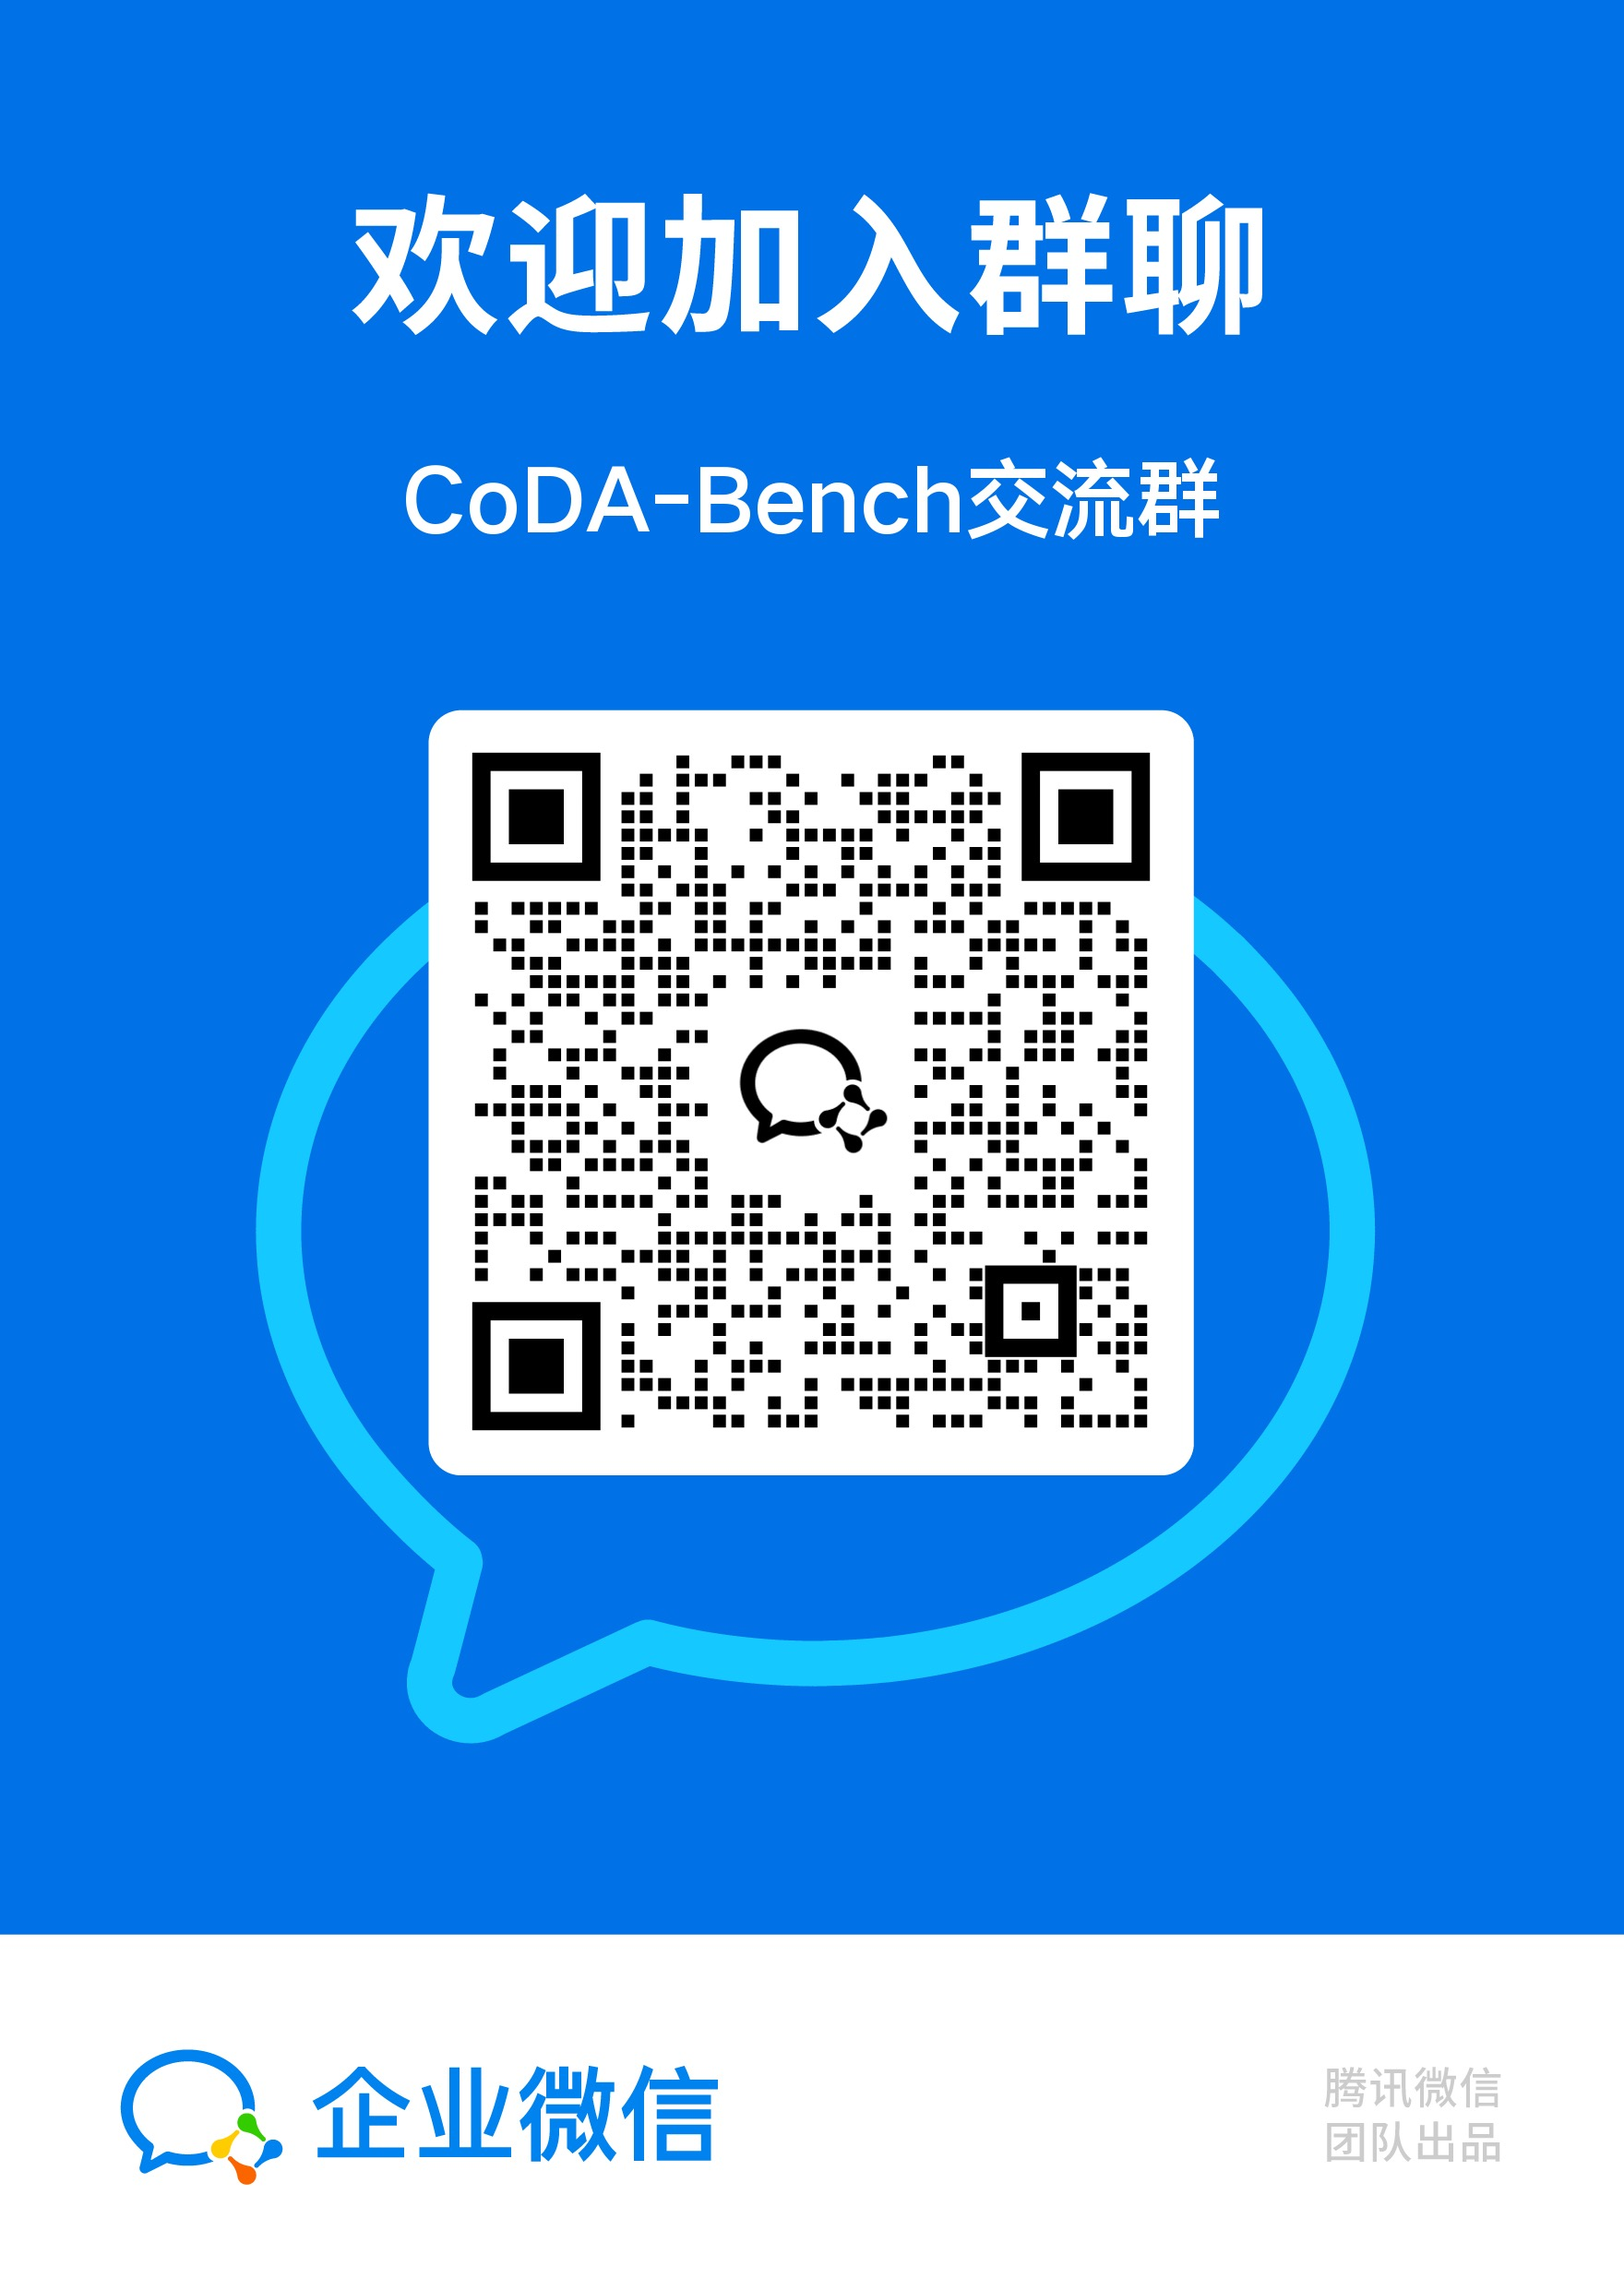
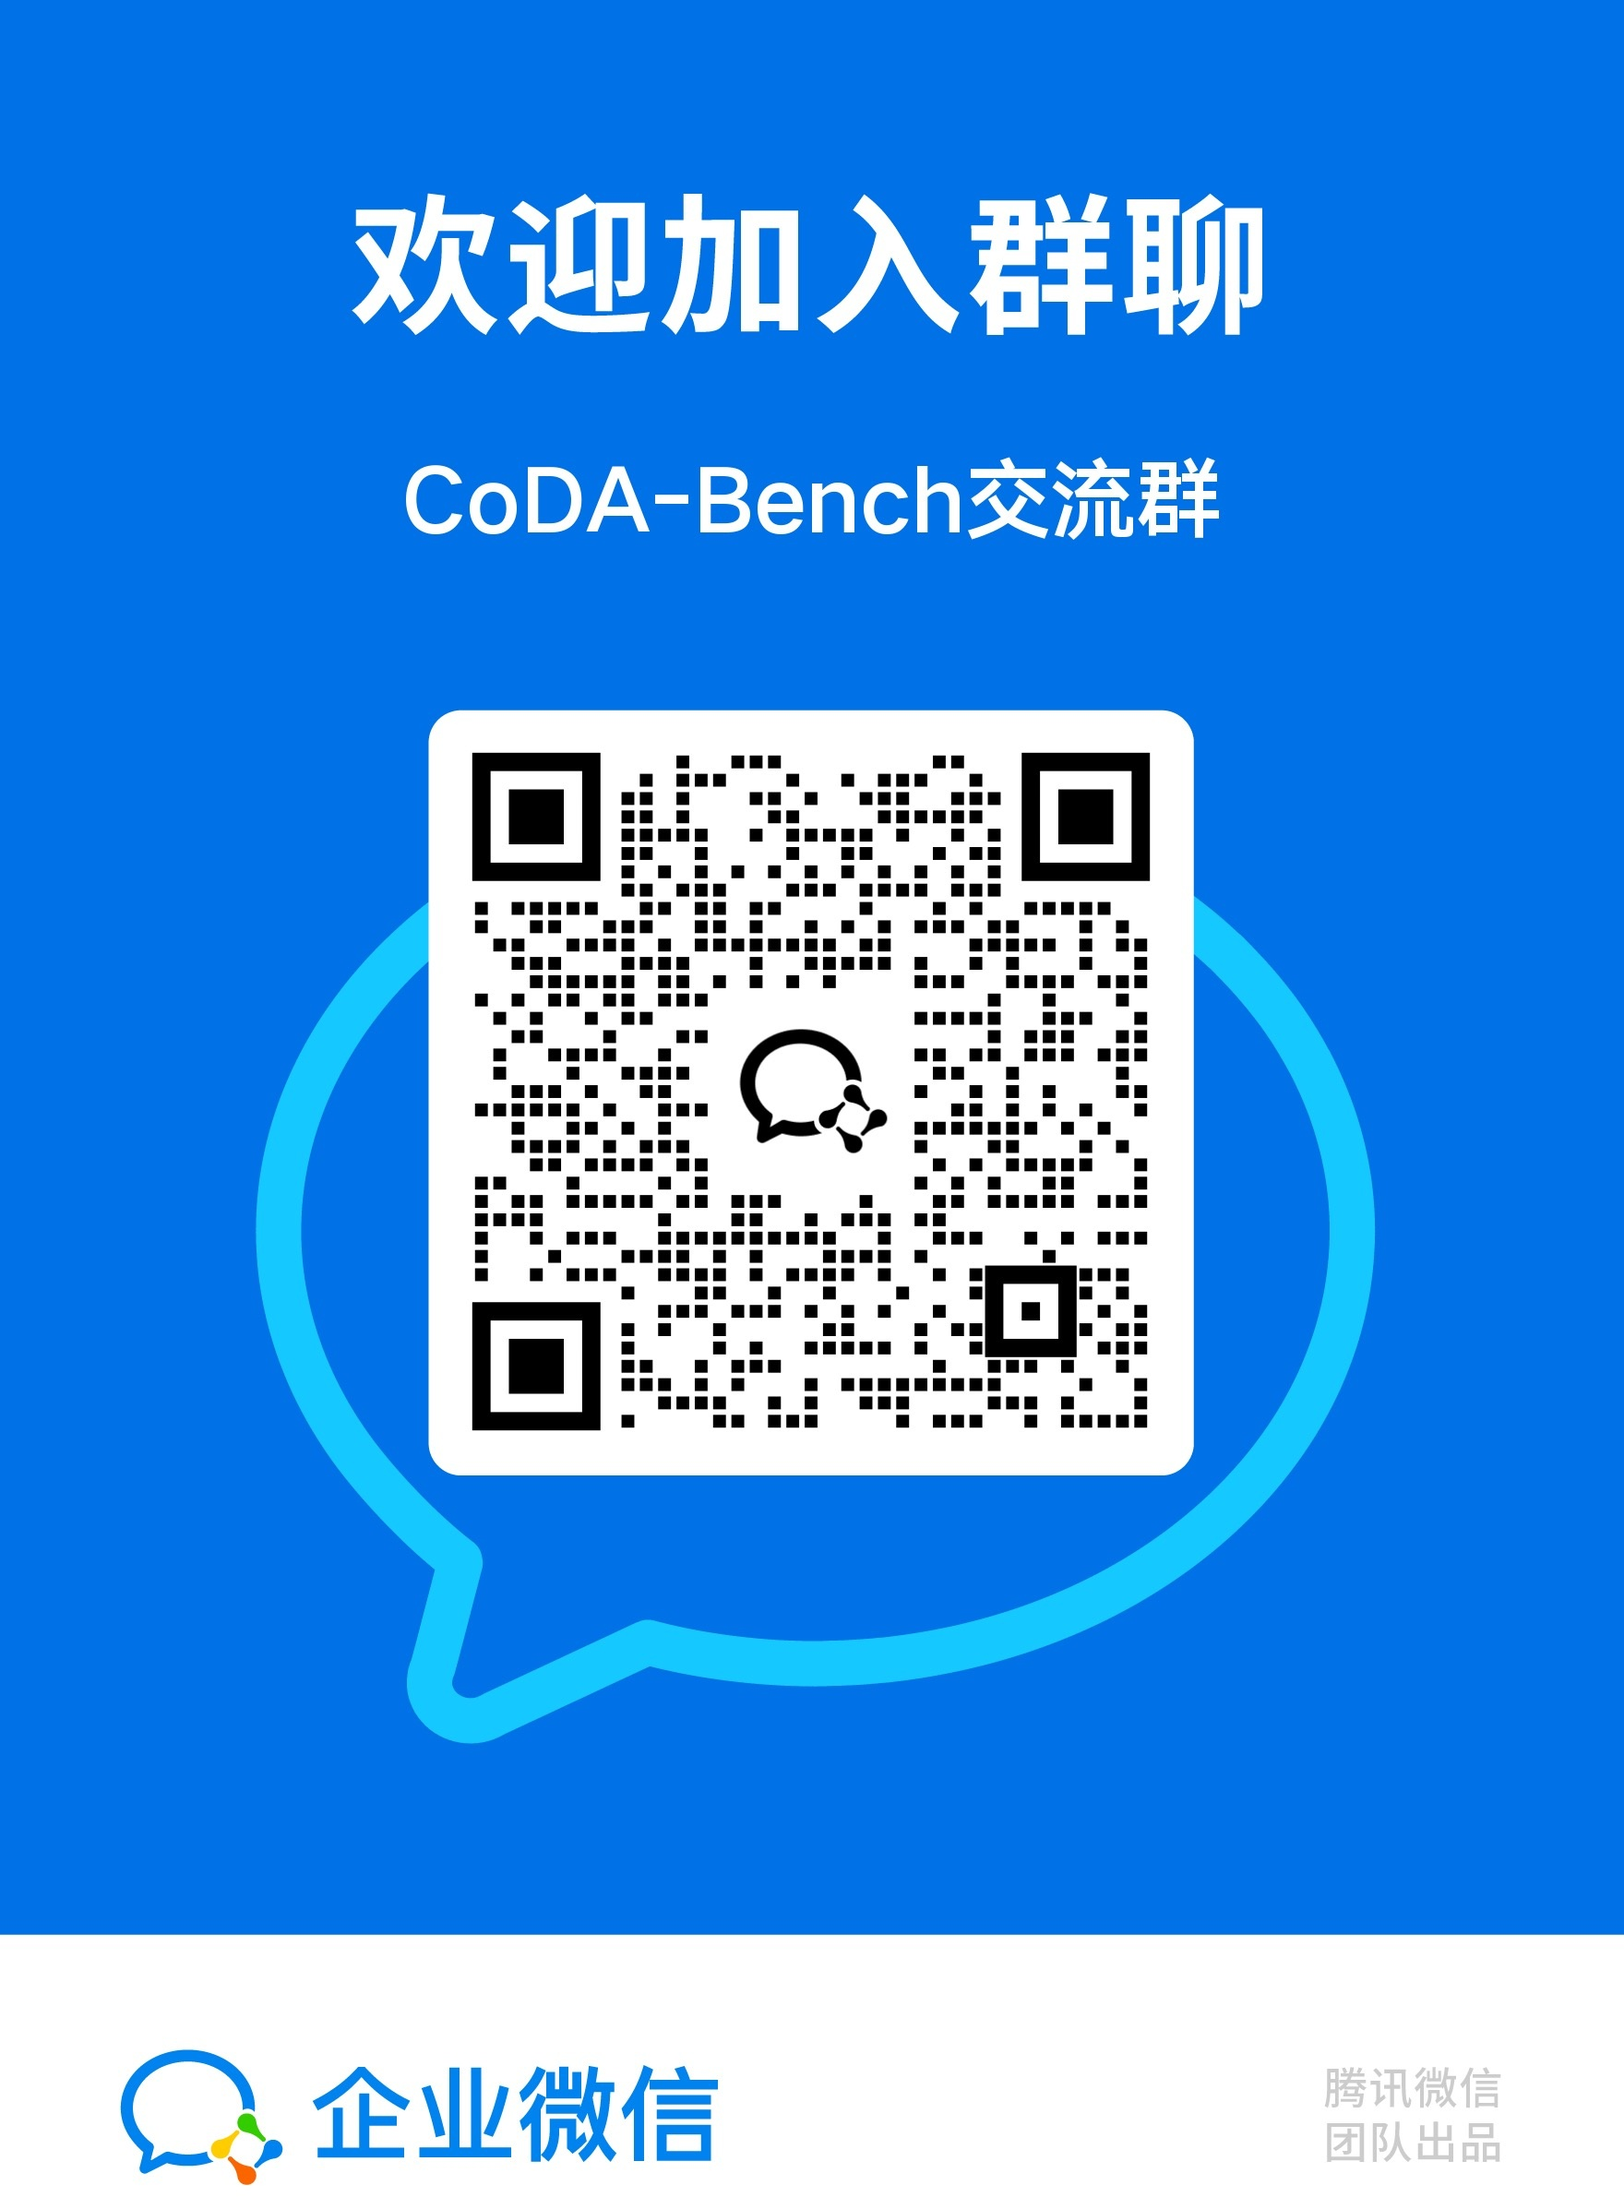
docs: align community QR code sizes

diff --git a/README.md b/README.md
@@ -254,8 +254,8 @@ Individual Kaggle datasets may have their own licenses.
 Welcome to join the CoDA-Bench WeChat group or the RUC-DataLab Feishu group, chat and share ideas with others!
 
 <p align="left" width="100%">
-<img src="./assets/WechatIMG.jpg" alt="CoDA-Bench WeChat" style="width: 35%; min-width: 300px; display: block; margin: auto;">
-<img src="./assets/feishu.jpg" alt="RUC-DataLab Feishu group" style="width: 35%; min-width: 300px; display: block; margin: auto;">
+<img src="./assets/WechatIMG.jpg" alt="CoDA-Bench WeChat" style="width: 35%; height: 420px; min-width: 300px; object-fit: contain; display: block; margin: auto;">
+<img src="./assets/feishu.jpg" alt="RUC-DataLab Feishu group" style="width: 35%; height: 420px; min-width: 300px; object-fit: contain; display: block; margin: auto;">
 </p>
 
 If you like CoDA-Bench, give it a GitHub Star ⭐.
